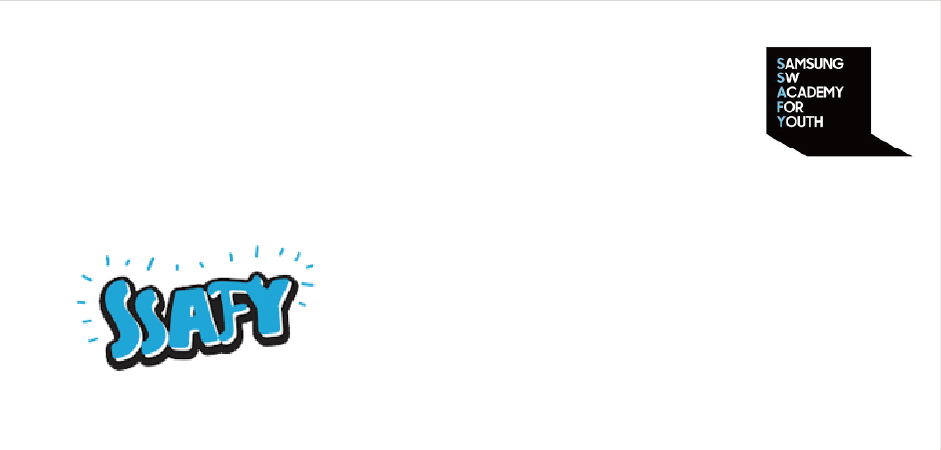
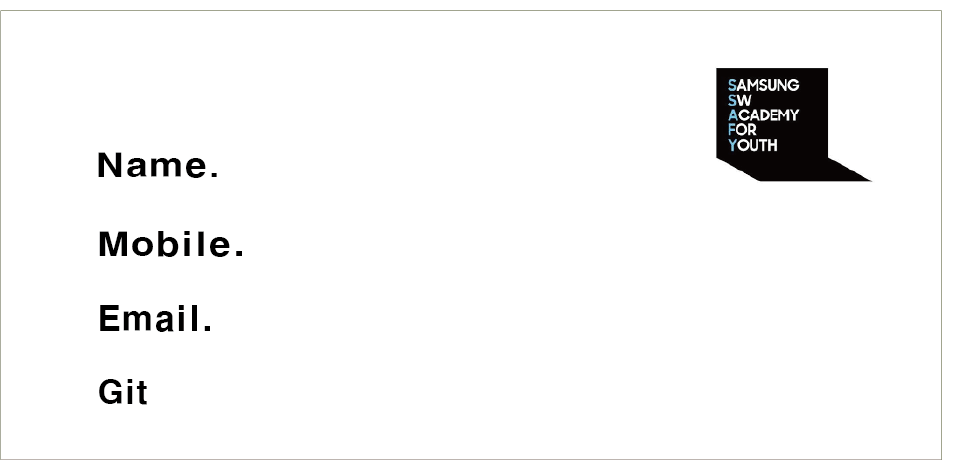
명함 셀프 생성 - 싸피 템플릿 추가

diff --git a/ssok/lib/screens/businesscard/business_card_self_create_page.dart b/ssok/lib/screens/businesscard/business_card_self_create_page.dart
@@ -537,15 +537,15 @@ class BusinessCardBox extends StatefulWidget {
 class _BusinessCardBoxState extends State<BusinessCardBox> {
   late List<String> values;
   List<Offset> offsets = [
-    Offset(0, 0),
-    Offset(0, 0),
-    Offset(0, 0),
-    Offset(0, 0),
-    Offset(0, 0),
-    Offset(0, 0),
-    Offset(0, 0),
-    Offset(0, 0),
-    Offset(0, 0),
+    Offset(60, 40),
+    Offset(60, 60),
+    Offset(60, 80),
+    Offset(60, 100),
+    Offset(60, 120),
+    Offset(120, 40),
+    Offset(120, 60),
+    Offset(120, 80),
+    Offset(120, 100),
   ];
   late double maxWidth;
   late double maxHeight;
@@ -894,7 +894,7 @@ class DraggableTextState extends State<DraggableText> {
       child: GestureDetector(
         child: Text(
           widget.name,
-          style: TextStyle(fontSize: 15),
+          style: TextStyle(fontSize: 11),
         ),
         onPanUpdate: (details) {
           final newOffset = Offset(
